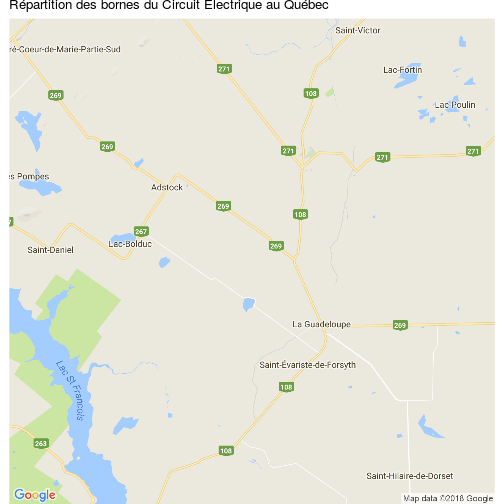
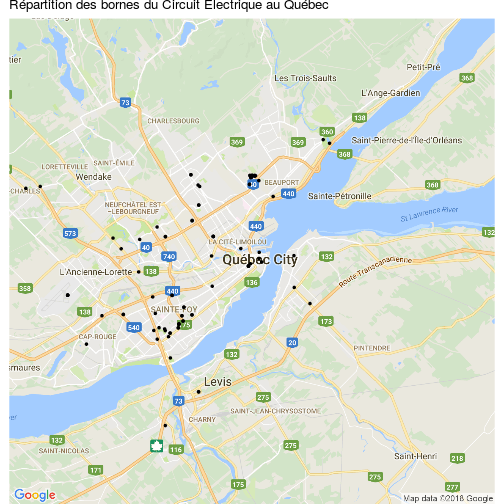
Carte
geom_point

diff --git a/_posts/2016-11-07-googlemap.md b/_posts/2016-11-07-googlemap.md
@@ -109,6 +109,7 @@ Puis il faut créer un objet qui servira de base à la carte :
 
 
 {% highlight r %}
+Location <- c(lat = 46.812624, lon = -71.215353)
 map <- get_map(location = Location, source = "google", maptype = "roadmap", zoom = 11)
 {% endhighlight %}
 La fonction **get_map**, qui va chercher la carte dans google map, prend au minimum 4 arguments. L'argument **location** est le lieu que l'on veut avoir sur la carte. L'argument **zoom** est l'équivalent des + et - sur google map, il permet de s'éloigner ou se rapprocher du lieu qui à été sélectionné. L'arguement **source** est la source de provenance de la carte. Il il y a au moins 4 sources disponibles, et chacune a ses propres **maptype**.
